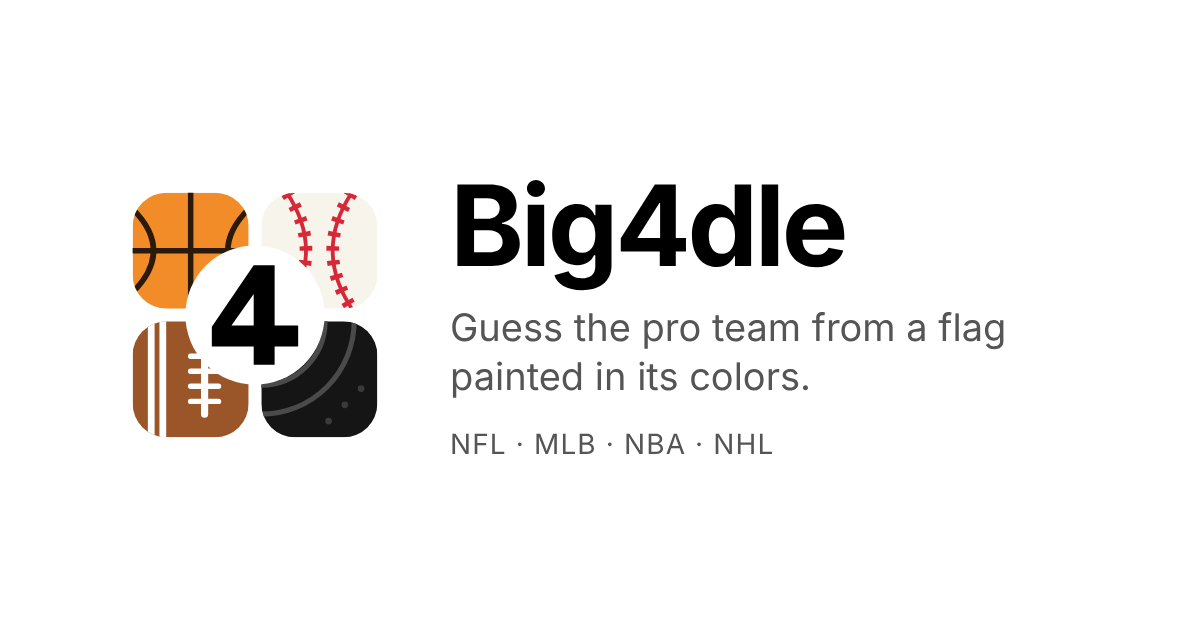
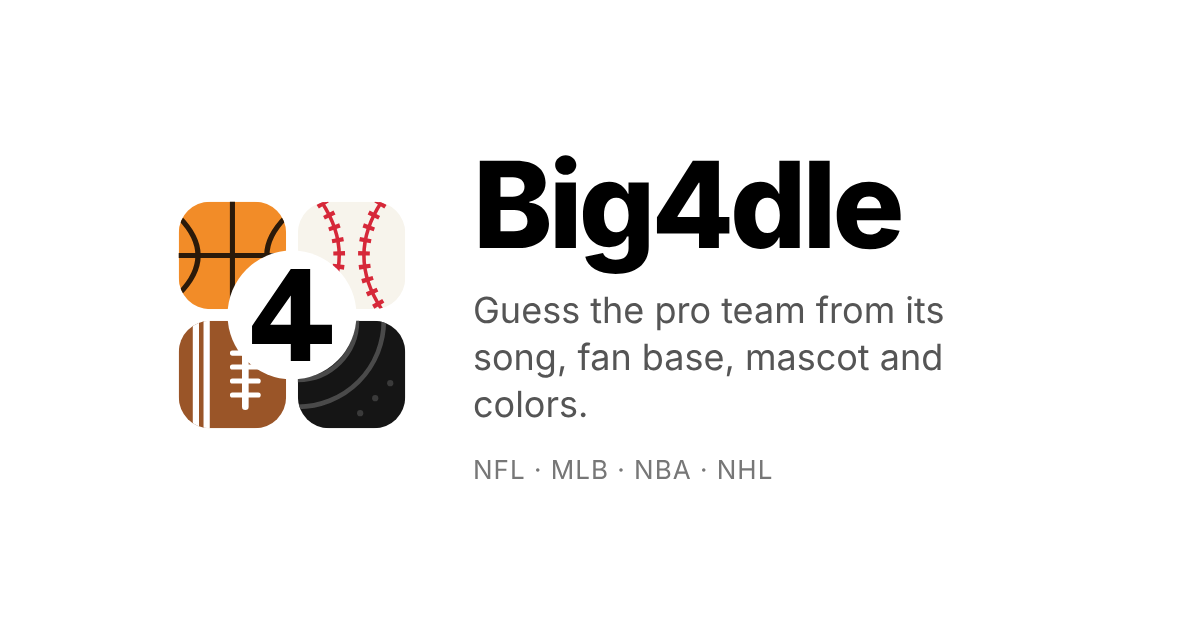
Update share preview image and cache-bust it (no more flag wording)
Claude-Session: https://claude.ai/code/session_016hfPirMptNrkBJKFViKhro

Changed region(s): [[0.37, 0.2413, 0.8633, 0.6635], [0.0925, 0.3016, 0.3392, 0.6937], [0.37, 0.6937, 0.6475, 0.7841]]

diff --git a/index.html b/index.html
@@ -11,7 +11,7 @@
   <meta property="og:type" content="website">
   <meta property="og:title" content="Big4dle">
   <meta property="og:description" content="Guess the pro team from its song, fan base, mascot and colors. NFL, MLB, NBA and NHL.">
-  <meta property="og:image" content="https://big4dle.pages.dev/og-image.png">
+  <meta property="og:image" content="https://big4dle.pages.dev/og-image.png?v=2">
   <meta name="twitter:card" content="summary_large_image">
   <link rel="stylesheet" href="styles.css">
 </head>
